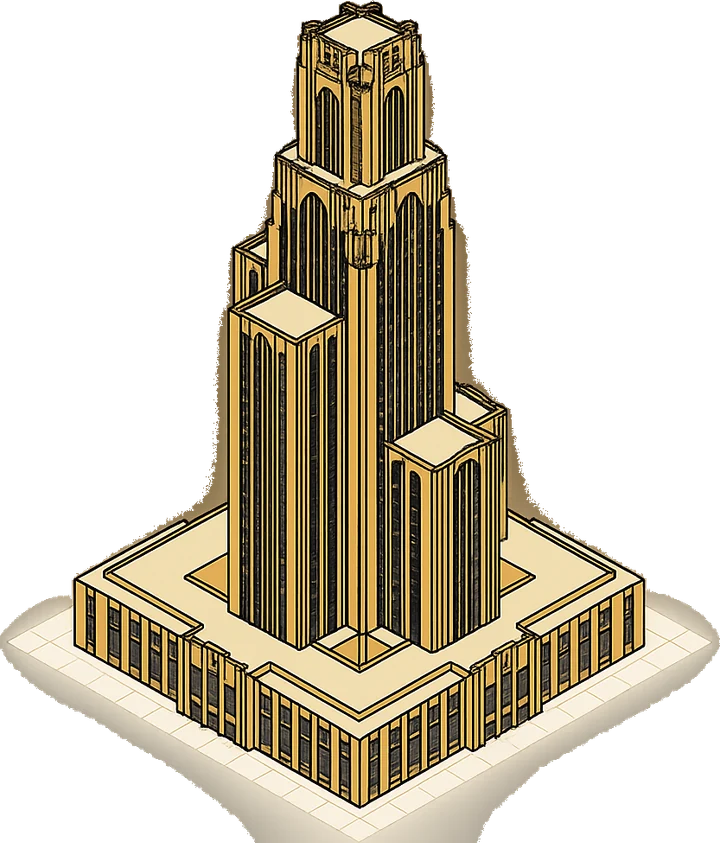
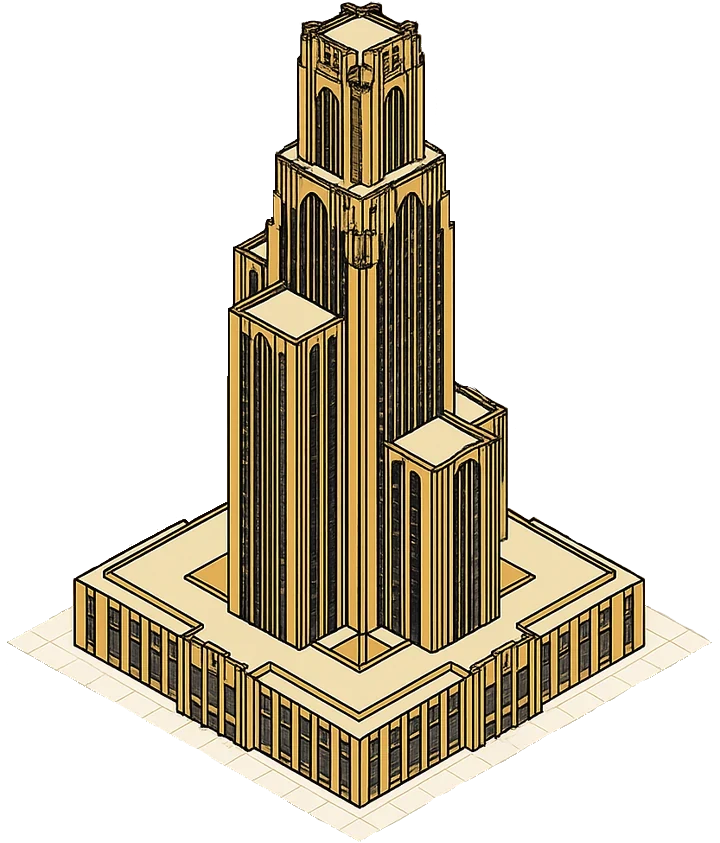
Add the Duquesne Incline, pool the landmarks, and shift the river hues (#253)
Four changes to the Pittsburgh backdrop.

Add the Duquesne Incline as a fourth landmark tile, standing in the left
margin just above the portfolio heading. That is as far down as a tile can
usefully go: past the heading the project grid runs to 95% of the viewport
width and covers the margin a tile stands in.

Change how prepare-landmarks.mjs mattes the art. The old flood gated on
colour — dark and nearly grey — and the incline's baked vignette glows up to
a bright acid green, so the flood stopped short and left a halo around the
whole silhouette. Opening the colour gate instead ate through the shadowed
deck beside the upper station, where the art is as dark as the vignette next
to it. The gate is now local roughness: a vignette is perfectly smooth
whatever colour it reaches, and inked artwork disagrees sharply with a
neighbour somewhere.

Stand every tile in a soft pool of the bank colour and hold the art at 0.70
rather than 0.88. The pool is `plate`, which is one step off the ground in
both palettes, so it comes out lighter than the ground on near-black and
darker on paper without carrying a colour of its own. It has no edge, which
is the point: it settles a tile onto the plane without putting a second
built object behind the art. The foot of the viewport cull now clears the
pool as well as the art, because the pool reaches below the base.

Move both rivers in saturation only, keeping every hue and every lightness,
[…]

diff --git a/src/utils/pghMode/landmarks.js b/src/utils/pghMode/landmarks.js
@@ -1,6 +1,6 @@
 // Isometric landmark tiles standing on the ground plane.
 //
-// Three of them, and their positions are fixed rather than searched: flush into
+// Four of them, and their positions are fixed rather than searched: flush into
 // the left and right margins, alternating sides, and all of them below the
 // timeline so the upper half of the page stays clear. Same places every visit.
 //
@@ -20,14 +20,21 @@ import { rgba, clamp } from './palette';
 // silently loads the string form of an object.
 import cathedralUrl from '../../assets/pgh/cathedral-of-learning.webp?url';
 import phippsUrl from '../../assets/pgh/phipps-conservatory.webp?url';
-import worksUrl from '../../assets/pgh/mon-valley-works.webp?url';
+import furnaceUrl from '../../assets/pgh/carrie-furnace.webp?url';
+import inclineUrl from '../../assets/pgh/duquesne-incline.webp?url';
 
 // `down` is how far below the timeline the tile stands, in px of document.
 // `side` is -1 for the left margin, +1 for the right.
 const TILES = [
-    { url: worksUrl, name: 'Mon Valley Works', widthCells: 10, aspect: 940 / 840, down: 420, side: 1 },
+    { url: furnaceUrl, name: 'Carrie Furnace', widthCells: 10, aspect: 940 / 840, down: 420, side: 1 },
     { url: cathedralUrl, name: 'Cathedral of Learning', widthCells: 8, aspect: 975 / 833, down: 2300, side: -1 },
     { url: phippsUrl, name: 'Phipps Conservatory', widthCells: 7.5, aspect: 917 / 918, down: 4100, side: 1 },
+    // Taller than it is wide, unlike the other three, so it is held narrower to
+    // keep it from towering over them. Standing just above the portfolio heading
+    // rather than further down: past that point the grid is wide enough to cover
+    // the margin a tile stands in, so a tile placed inside the portfolio is a
+    // tile nobody sees.
+    { url: inclineUrl, name: 'Duquesne Incline', widthCells: 7, aspect: 1208 / 926, down: 4700, side: -1 },
 ];
 
 // The plinth, as a fraction of tile height. Only the ground a tile stands on
@@ -85,12 +92,46 @@ export function createLandmarks(ctx, palette, lattice) {
         }));
     }
 
+    // A pool of the bank colour under a tile — lighter than the ground on
+    // near-black, darker on paper, because `plate` is one step off the ground in
+    // both palettes. It has no edge and reads as nothing in particular, which is
+    // the point: it settles the tile onto the plane without putting a second
+    // built object behind the art. Squashed to an ellipse, because the ground it
+    // pools on is seen at the lattice's angle rather than face on.
+    const HALO_RX = 1.05;   // of tile width
+    const HALO_RY = 0.62;   // of tile height
+    const HALO_RISE = 0.32; // centre, above the base, as a fraction of height
+
+    function halo(bx, by, w, h, g) {
+        const cy = by - h * HALO_RISE;
+        const rx = w * HALO_RX;
+        const ry = h * HALO_RY;
+        const pool = ctx.createRadialGradient(bx, cy, 0, bx, cy, rx);
+        pool.addColorStop(0, rgba(palette.plate, 0.95 * g));
+        pool.addColorStop(0.5, rgba(palette.plate, 0.6 * g));
+        pool.addColorStop(1, rgba(palette.plate, 0));
+        ctx.save();
+        ctx.translate(bx, cy);
+        ctx.scale(1, ry / rx);
+        ctx.translate(-bx, -cy);
+        ctx.fillStyle = pool;
+        ctx.beginPath();
+        ctx.arc(bx, cy, rx, 0, Math.PI * 2);
+        ctx.fill();
+        ctx.restore();
+    }
+
     function frame(scrollY, g) {
         const height = lattice.height();
         for (const { img, cell: at, w, h } of placed) {
             if (!img.complete || !img.naturalWidth) continue;
             const [bx, by] = lattice.project(at[0], at[1], scrollY);
-            if (by < -h - 40 || by > height + 80) continue;
+            // The halo reaches below the base as well as above it, so the foot of
+            // the cull has to clear the pool and not just the art. Culling on the
+            // art alone popped the pool off at the bottom edge of the viewport.
+            if (by < -h - 40 || by > height + h * (HALO_RY - HALO_RISE) + 40) continue;
+
+            halo(bx, by, w, h, g);
 
             // A soft contact shadow, so the tile sits on the plane rather than
             // floating over it.
@@ -99,9 +140,9 @@ export function createLandmarks(ctx, palette, lattice) {
             ctx.ellipse(bx, by - h * 0.02, w * 0.42, w * 0.12, 0, 0, Math.PI * 2);
             ctx.fill();
 
-            // Held a little back: the art is more saturated than anything else in
+            // Held well back: the art is more saturated than anything else in
             // this palette, and it is still a backdrop.
-            ctx.globalAlpha = clamp(0.88 * g, 0, 1);
+            ctx.globalAlpha = clamp(0.70 * g, 0, 1);
             ctx.drawImage(img, bx - w / 2, by - h, w, h);
             ctx.globalAlpha = 1;
         }

diff --git a/src/utils/pghMode/palette.js b/src/utils/pghMode/palette.js
@@ -11,15 +11,20 @@ export const PALETTES = {
         light: false,
         ground: '#0A0E13',      // the ground plane
         plate: '#131A22',       // channel banks
-        // Rivers are held well back. This is a backdrop, and the earlier values
-        // read as neon against near-black.
-        water: '#11242D',
-        waterLit: '#244A56',
-        surf: '#3B6472',        // tracers on the surface
-        hot: '#A51F0B',         // red-orange crust at the channel edges
-        hotter: '#E23B12',      // exposed, fast-moving iron
+        // Rivers are held well back in lightness. This is a backdrop, and the
+        // earlier values read as neon against near-black.
+        //
+        // Saturation is a separate question from lightness, though, and the
+        // water was paying for the restraint twice: dark AND grey, which reads
+        // as a wet road rather than a river. So the three water tokens carry
+        // their hue at full strength and stay exactly as dark as they were.
+        water: '#072737',
+        waterLit: '#135368',
+        surf: '#286D85',        // tracers on the surface
+        hot: '#B01700',         // red-orange crust at the channel edges
+        hotter: '#F23202',      // exposed, fast-moving iron
         molten: '#FF7440',      // the white-hot centre of the channel
-        glow: '#E32612',        // red bloom around a molten channel
+        glow: '#F31902',        // red bloom around a molten channel
         steel: '#8FA1AE',       // truss members, piers
         structure: '#C9D4DC',
         deck: '#9FADB7',
@@ -43,13 +48,13 @@ export const PALETTES = {
         light: true,
         ground: '#EAEEF1',
         plate: '#DCE3E8',
-        water: '#C2D2DA',
-        waterLit: '#9BB4BF',
-        surf: '#5C7B86',
-        hot: '#A82C18',
-        hotter: '#D94A24',
-        molten: '#F47A45',
-        glow: '#D83A20',
+        water: '#BAD5E2',
+        waterLit: '#8EB9CC',
+        surf: '#4D8295',
+        hot: '#B3240D',
+        hotter: '#E74216',
+        molten: '#FF763A',
+        glow: '#E63012',
         steel: '#52646F',
         structure: '#2C3A45',
         deck: '#41525F',

diff --git a/CHANGELOG.md b/CHANGELOG.md
@@ -6,7 +6,7 @@
 - Added Pittsburgh as a fifth site backdrop, reachable from the `Pittsburgh` word in the hero, which was the one descriptor in that line that switched nothing. It is an isometric valley behind the whole page: the Allegheny runs out from behind the hero, the Monongahela enters from the right, they meet at a fountain about a third of the way down, and the Ohio carries on down the right. Rivers turn only 90°, on the lattice axes, so none of them ever runs straight up, down or across ([#240](https://github.com/rossv/portfolio/pull/240)).
 - A ladle hangs in a mill bay in the expertise section — crane girder, hoist chains, sheave block, lattice columns, walkway, refractory trough. The crane traverses it into position and tips it, and the iron it pours runs down the left of the page on its own clock rather than being scrubbed by scroll.
 - Clicking a river throws a bridge across it, in one of four Pittsburgh silhouettes: the Three Sisters suspension, the Smithfield lenticular truss, a tied arch, and the Hot Metal through-truss, which the molten always gets. Clicking anywhere else throws molten iron at the ground. Bridges are refused in the hero, where the rivers are washed out.
-- Three isometric landmark tiles stand in the margins below the timeline — a Mon Valley works, the Cathedral of Learning, Phipps Conservatory. Their positions are fixed and the rivers are routed around them.
+- Four isometric landmark tiles stand in the margins below the timeline — Carrie Furnace, the Cathedral of Learning, Phipps Conservatory, and the Duquesne Incline just above the portfolio heading. Their positions are fixed and the rivers are routed around them. Each stands in a soft pool of the bank colour, and the art is held at 0.70 so it stays a backdrop.
 - The hero keeps its own band: a gold main cable on a catenary with hanger ropes, cable bands and a lit necklace, over a drifting overcast.
 - Added two badges — Steel City for finding the backdrop, Bridge Builder for ten bridges — and Mode Collector now asks for all five backdrops. Pittsburgh also takes the site's three accent hooks, so the `VOLKWEIN` wordmark and the licence pills carry the gold.
 - Generalized `carrierFor` in `FloatingIcons` to read either a single carrier or a list, which retired the `stars` special case instead of adding a second one beside it, and gave Pittsburgh three carriers of its own: a keystone, a riveted gusset plate and a Pratt through-truss.
